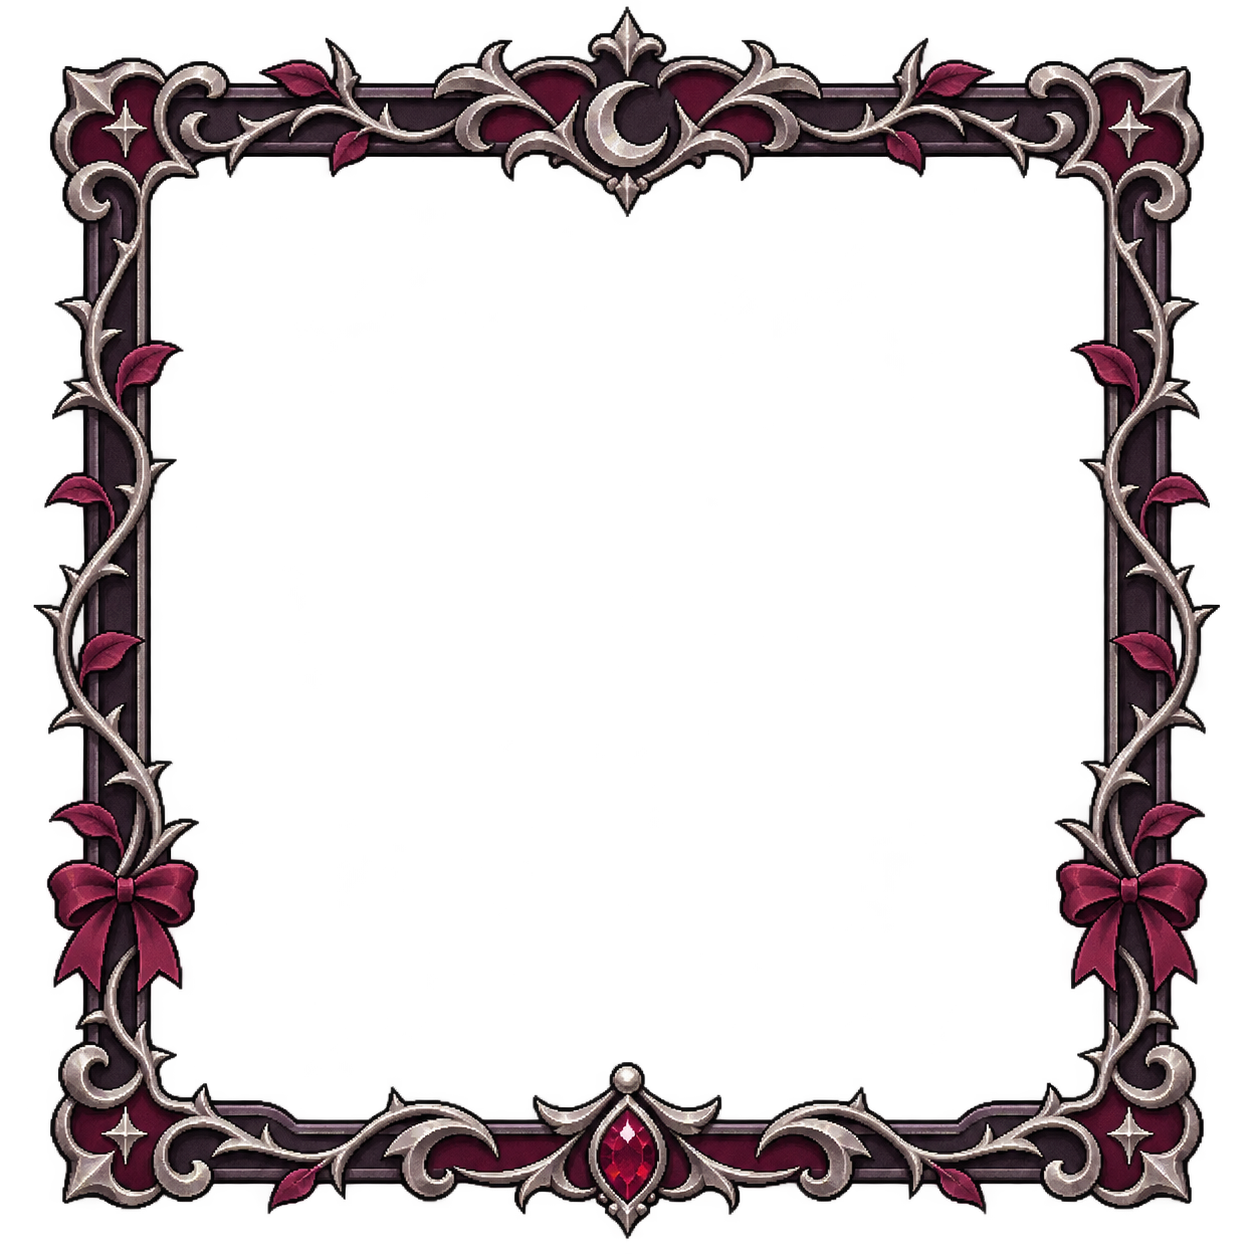
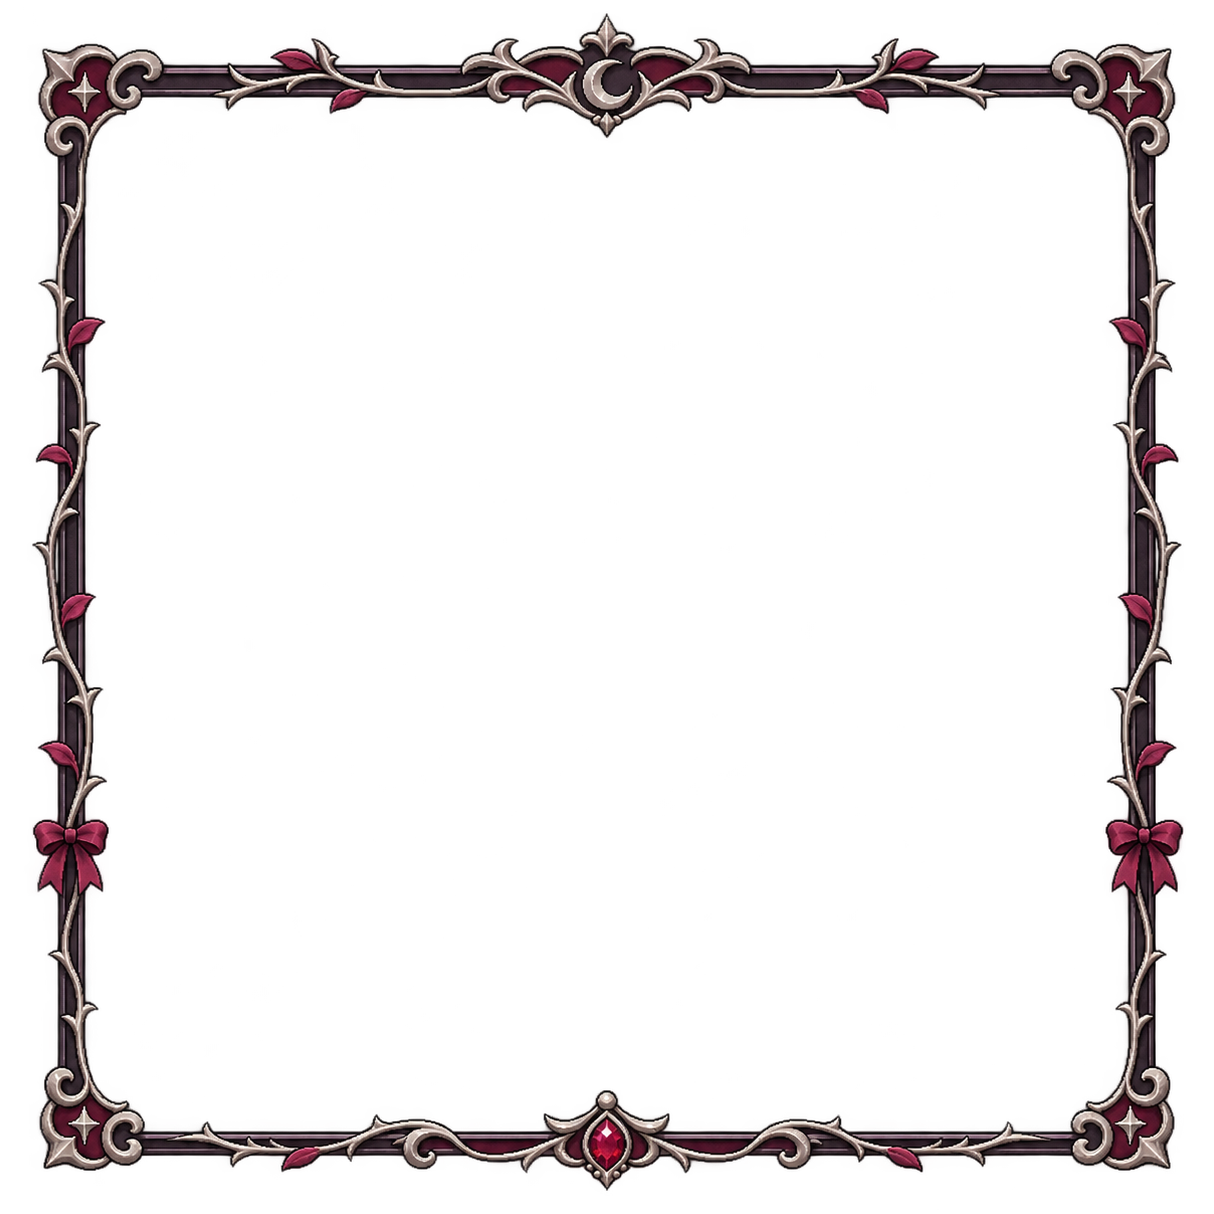
fix: thin Saya's portrait frame

Changed region(s): [[0.0305, 0.0, 0.9753, 1.0]]

diff --git a/src/app/scenery/catgirl.rs b/src/app/scenery/catgirl.rs
@@ -491,8 +491,8 @@ pub fn show(ui: &mut egui::Ui) {
 
     // Tuck the portrait's crop edges beneath the frame rails.
     let opening = Rect::from_min_max(
-        rect.min + rect.size() * egui::vec2(0.115, 0.13),
-        rect.min + rect.size() * egui::vec2(0.885, 0.90),
+        rect.min + rect.size() * egui::vec2(0.065, 0.066),
+        rect.min + rect.size() * egui::vec2(0.935, 0.936),
     );
     paint(ui, opening, &format!("{expression:?}"), expression.bytes());
     paint(
